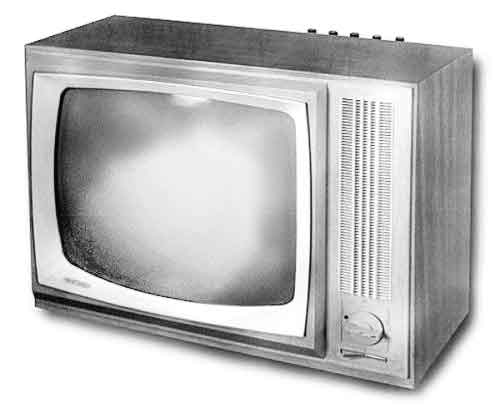
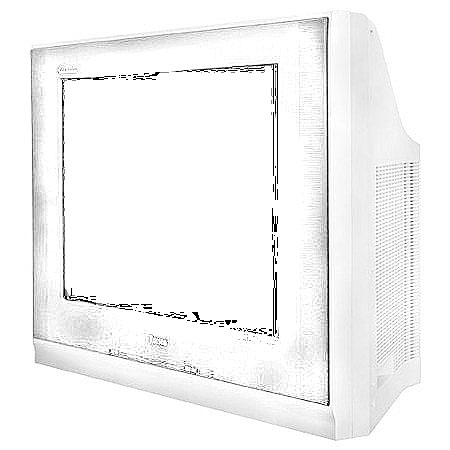
Коробка "Интернет-магазин": обновлены фото разделов

diff --git a/includes/shema.php b/includes/shema.php
@@ -108,6 +108,7 @@ if (Ab_UpdateManager::$isCoreInstall){
 				ЖК (жидко-кристалические) телевизоры  - это отличная передача звука и качества. 
 				Уже давно пора давно забыть об ЭЛТ телевизорах и купить телевизор жк. 
 				В нашем магазине вы сможете подобрать то, что вам нужно. 
+			</p>
 			";
 			$catid = $manCatalog->CatalogAppend($cat);
 				
@@ -174,6 +175,21 @@ if (Ab_UpdateManager::$isCoreInstall){
 			$p->fld_sklad = "4";
 			$p->fld_price = "259.90";
 			$manCatalog->ElementAppend($p);
+			
+			$cat = new stdClass();
+			$cat->img = EshoportalUploadImage(CWD.'/modules/eshopportal/mediasrc/tvkinescope.jpg');
+			$cat->pid = $pcatid;
+			$cat->nm = 'tvkinescope';
+			$cat->tl = 'Кинескопные телевизоры';
+			$cat->ord = $ordwg--;
+			$cat->dsc = "
+			<p>
+				Очень большие и тяжелые телевизоры прошлого века. К тому же потребляют 
+				существенное кол-во электроэнергии. 
+			</p>
+			";
+			$catid = $manCatalog->CatalogAppend($cat);
+				
 			
 			if ($devMode){
 				$pcatid = $pcatid;
